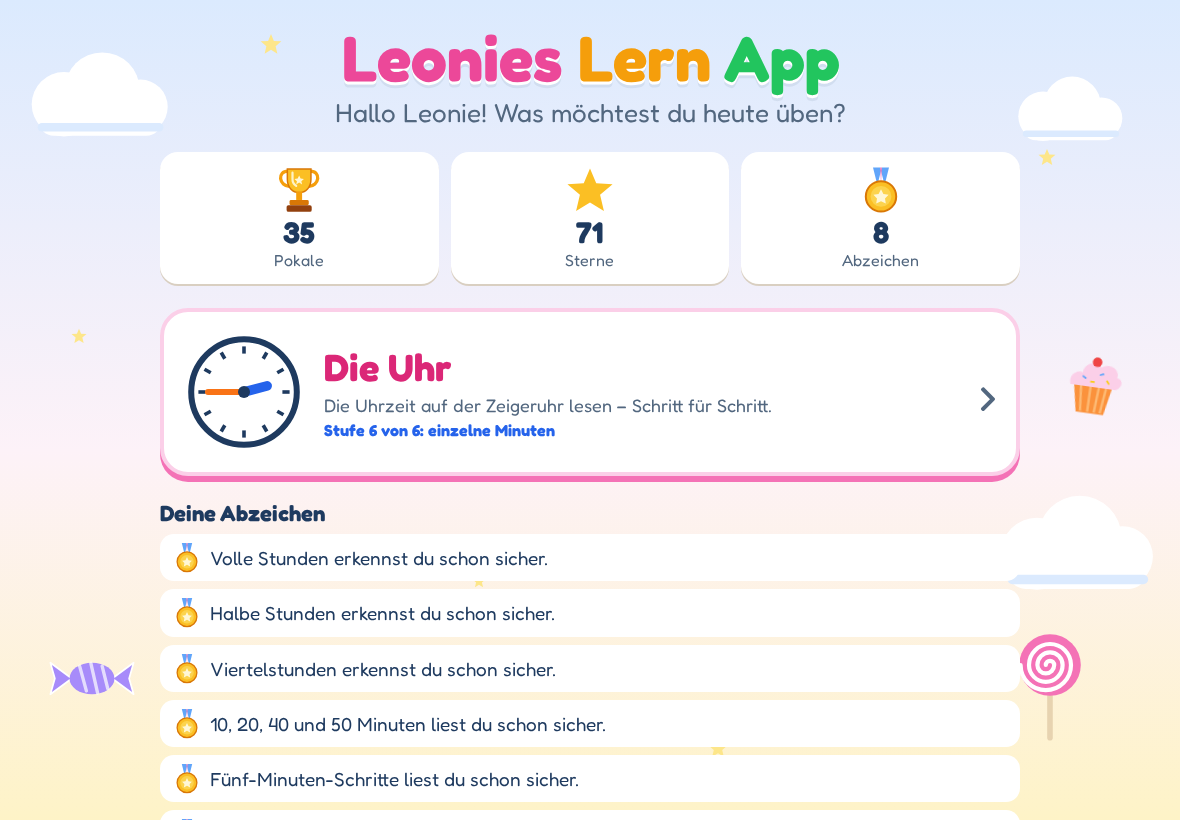
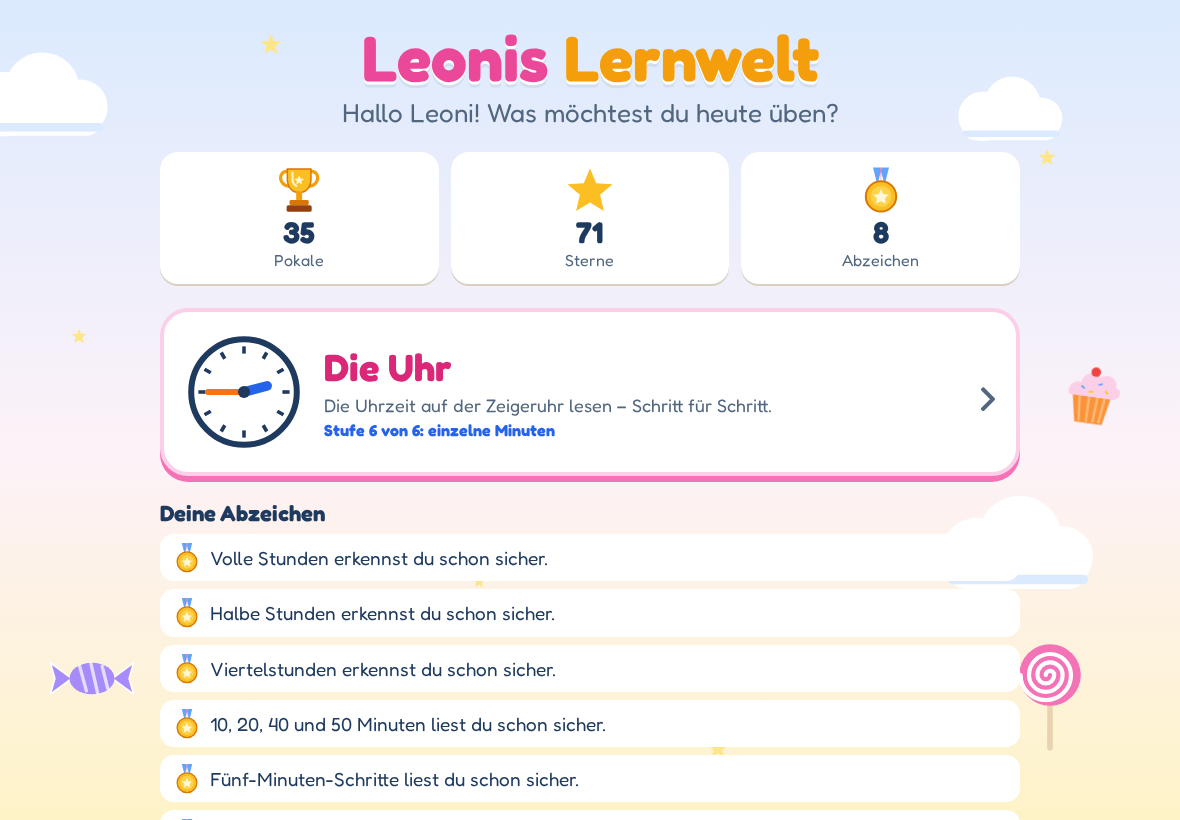
Rename to Leonis Lernwelt (lernwelt.nieda.de), add MIT license, request persistent storage
clock.nieda.de redirects permanently to the new hostname.

diff --git a/index.html b/index.html
@@ -6,7 +6,7 @@
     <meta name="theme-color" content="#fdf6ec" />
     <meta name="apple-mobile-web-app-capable" content="yes" />
     <meta name="mobile-web-app-capable" content="yes" />
-    <title>Leonies Lern App</title>
+    <title>Leonis Lernwelt</title>
     <link rel="icon" href="./favicon.svg" type="image/svg+xml" />
   </head>
   <body>

diff --git a/src/main.ts b/src/main.ts
@@ -17,6 +17,9 @@ let cleanup: (() => void) | null = null;
 
 document.title = APP_NAME;
 
+// Ask the browser not to evict the progress when storage runs low.
+void navigator.storage?.persist?.().catch(() => false);
+
 function escapeHtml(s: string): string {
   return s.replace(/[&<>"']/g, (c) => `&#${c.charCodeAt(0)};`);
 }

diff --git a/src/config.ts b/src/config.ts
@@ -1,3 +1,3 @@
 /** Names shown in the app; change here to personalise. */
-export const APP_NAME = 'Leonies Lern App';
-export const CHILD_NAME = 'Leonie';
+export const APP_NAME = 'Leonis Lernwelt';
+export const CHILD_NAME = 'Leoni';

diff --git a/src/shared/storage.ts b/src/shared/storage.ts
@@ -1,5 +1,5 @@
 /** localStorage access that never throws (private mode, full or blocked storage). */
-const PREFIX = 'lern-app.';
+const PREFIX = 'lernwelt.';
 
 export function readJson<T>(key: string): T | null {
   try {

diff --git a/DEPLOY.md b/DEPLOY.md
@@ -1,4 +1,4 @@
-# Deployment – clock.nieda.de
+# Deployment – lernwelt.nieda.de
 
 Runbook für das Ausrollen auf **netcup1**. Für die Entwicklung reicht `npm run dev`
 (siehe README). Das Muster entspricht dem Tiefenlicht-Deployment.
@@ -7,9 +7,9 @@ Runbook für das Ausrollen auf **netcup1**. Für die Entwicklung reicht `npm run
 
 | Was | Wert |
 |-----|------|
-| Domain | `clock.nieda.de` (öffentlich) – wird später umbenannt |
+| Domain | `lernwelt.nieda.de` (öffentlich); `clock.nieda.de` leitet dauerhaft dorthin um |
 | Server | `netcup1` (SSH-Host aus `~/.ssh/config`) |
-| Laufzeit | Docker-Container `clock_web` (nginx-unprivileged, Port 8080, statische Seite) |
+| Laufzeit | Docker-Container `lernwelt_web` (nginx-unprivileged, Port 8080, statische Seite) |
 | Reverse-Proxy | Traefik im Docker-Netz `proxy-manager`, TLS via Certresolver `production` |
 | Verwaltung | Terraform (`terraform/main.tf`), State im S3-Bucket (`terraform/backend.hcl`) |
 
@@ -51,7 +51,7 @@ task deploy       # anwenden (nicht-interaktiv: task deploy -- -auto-approve)
 Prüfen:
 
 ```bash
-curl -s https://clock.nieda.de/healthz   # {"ok":true,"version":"<Tag>"}
+curl -s https://lernwelt.nieda.de/healthz   # {"ok":true,"version":"<Tag>"}
 ```
 
 Beim ersten Deploy eines Hostnamens liefert Traefik einige Sekunden ein
@@ -60,8 +60,8 @@ Standardzertifikat, bis Let's Encrypt ausgestellt hat.
 ## Rollback
 
 ```bash
-DOCKER_HOST=ssh://netcup1 docker image ls clock
-echo 'image = "clock:<alter-tag>"' > terraform/image.auto.tfvars
+DOCKER_HOST=ssh://netcup1 docker image ls lernwelt
+echo 'image = "lernwelt:<alter-tag>"' > terraform/image.auto.tfvars
 task deploy
 ```
 

diff --git a/README.md b/README.md
@@ -1,10 +1,12 @@
-# Leonies Lern App
+# Leonis Lernwelt
 
 Eine kleine Lern-App für Kinder im Grundschulalter, gemacht für das Tablet. Sie läuft
 einfach im Browser – ohne Installation, ohne Konto, ohne Werbung.
 
-Das erste Modul heißt **„Die Uhr“**: Leonie (8) lernt damit, die Zeigeruhr zu lesen.
+Das erste Modul heißt **„Die Uhr“**: Leoni (8) lernt damit, die Zeigeruhr zu lesen.
 Weitere Module folgen.
+
+**Ausprobieren:** [lernwelt.nieda.de](https://lernwelt.nieda.de)
 
 <p align="center">
   <img src="docs/screenshots/clock-question.png" alt="Die Uhr: große Zeigeruhr mit drei Antwortknöpfen" width="720">
@@ -89,7 +91,9 @@ liest die Antworten vor.
 - Das **Zahnrad** im Uhr-Modul öffnet den Elternbereich: Stand jeder Stufe, Töne an/aus
   und „Fortschritt löschen“ (drei Sekunden gedrückt halten).
 - Der Fortschritt bleibt **nur auf dem Gerät** gespeichert (im Browser). Es werden keine
-  Daten verschickt.
+  Daten verschickt. Wer im Browser die Websitedaten löscht, fängt wieder von vorne an.
+- Tipp: Die Seite über das Browser-Menü „Zum Startbildschirm hinzufügen“ – dann startet sie
+  wie eine App im Vollbild.
 - Tipp: Kurze Übungsrunden von fünf bis zehn Minuten wirken besser als lange.
 
 <p align="center">
@@ -134,3 +138,7 @@ node scripts/screenshots.mjs http://localhost:5173
 
 Der Name der App und des Kindes steht in [`src/config.ts`](src/config.ts).
 Das Deployment (Docker + Terraform) beschreibt [`DEPLOY.md`](DEPLOY.md).
+
+## Lizenz
+
+[MIT](LICENSE)
